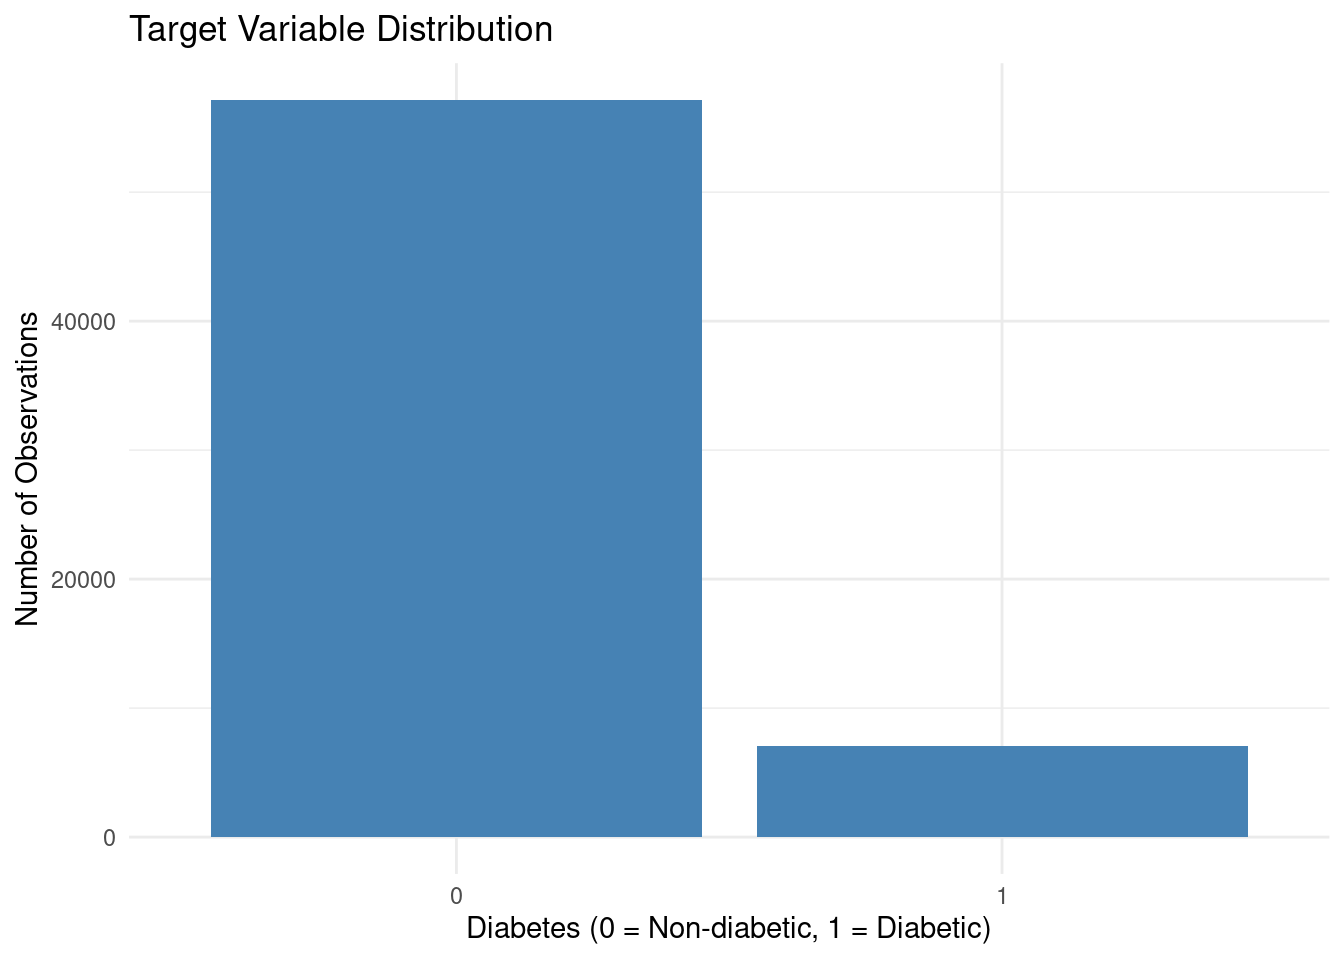
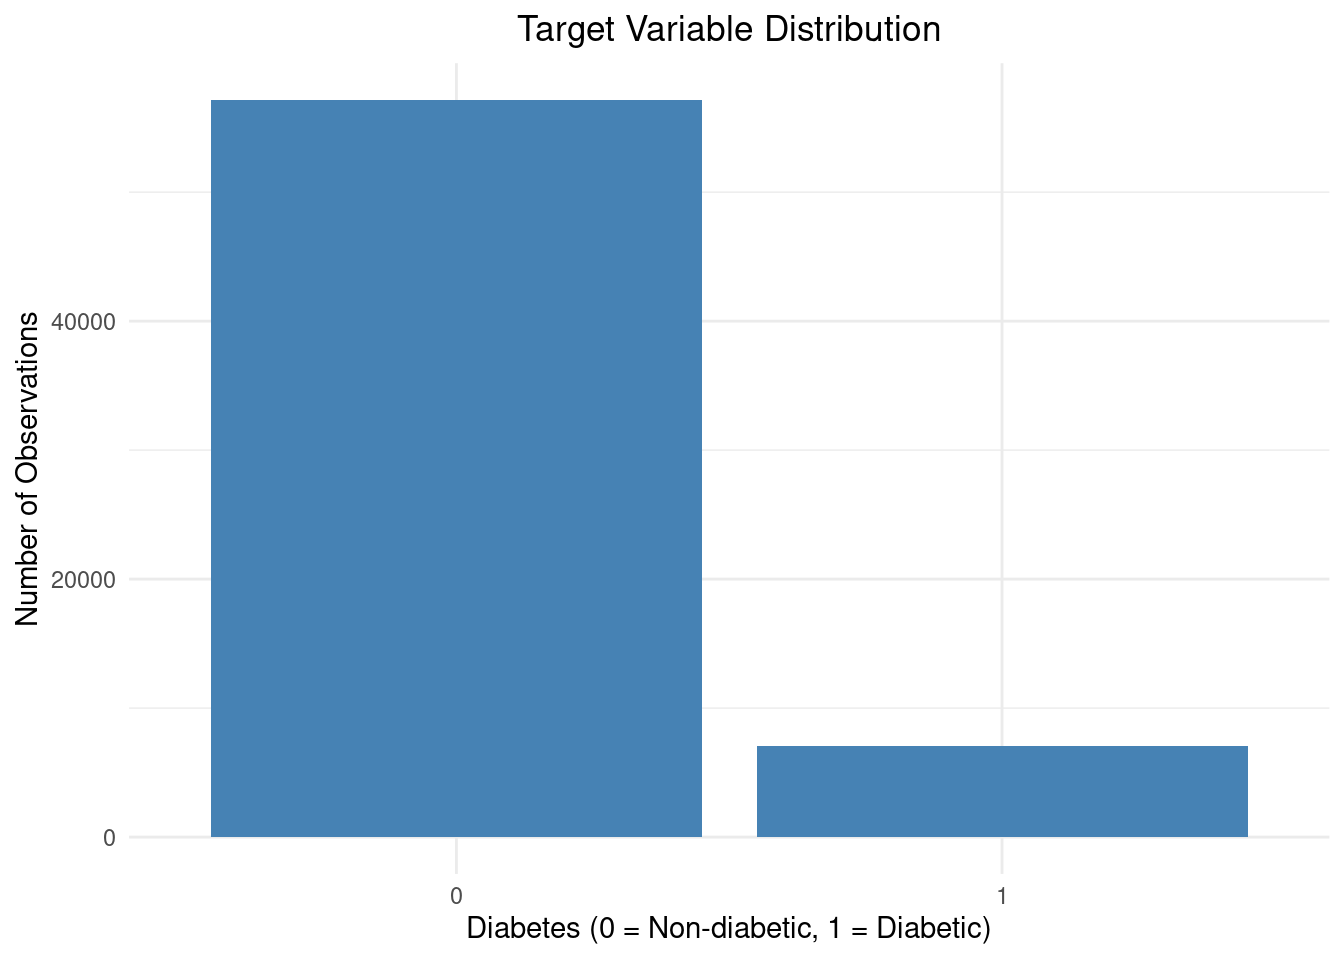
and that's it for today folks!

Changed region(s): [[0.0938, 0.0, 0.6875, 0.0625]]

diff --git a/r_docs/report.html b/r_docs/report.html
@@ -541,7 +541,8 @@ $diabetes
 <span id="cb30-10"><a href="#cb30-10" aria-hidden="true" tabindex="-1"></a>    <span class="at">x =</span> <span class="st">"Diabetes (0 = Non-diabetic, 1 = Diabetic)"</span>,</span>
 <span id="cb30-11"><a href="#cb30-11" aria-hidden="true" tabindex="-1"></a>    <span class="at">y =</span> <span class="st">"Number of Observations"</span></span>
 <span id="cb30-12"><a href="#cb30-12" aria-hidden="true" tabindex="-1"></a>  ) <span class="sc">+</span> </span>
-<span id="cb30-13"><a href="#cb30-13" aria-hidden="true" tabindex="-1"></a>  <span class="fu">theme_minimal</span>()</span></code><button title="Copy to Clipboard" class="code-copy-button"><i class="bi"></i></button></pre></div>
+<span id="cb30-13"><a href="#cb30-13" aria-hidden="true" tabindex="-1"></a>  <span class="fu">theme_minimal</span>() <span class="sc">+</span> </span>
+<span id="cb30-14"><a href="#cb30-14" aria-hidden="true" tabindex="-1"></a>  <span class="fu">theme</span>(<span class="at">plot.title =</span> <span class="fu">element_text</span>(<span class="at">hjust =</span> <span class="fl">0.5</span>))</span></code><button title="Copy to Clipboard" class="code-copy-button"><i class="bi"></i></button></pre></div>
 <div class="cell-output-display">
 <div>
 <figure class="figure">
@@ -550,6 +551,7 @@ $diabetes
 </div>
 </div>
 </div>
+<p>Visually it can be seen that the data is <strong>greatly imbalanced</strong>.</p>
 </section>
 </section>
 
